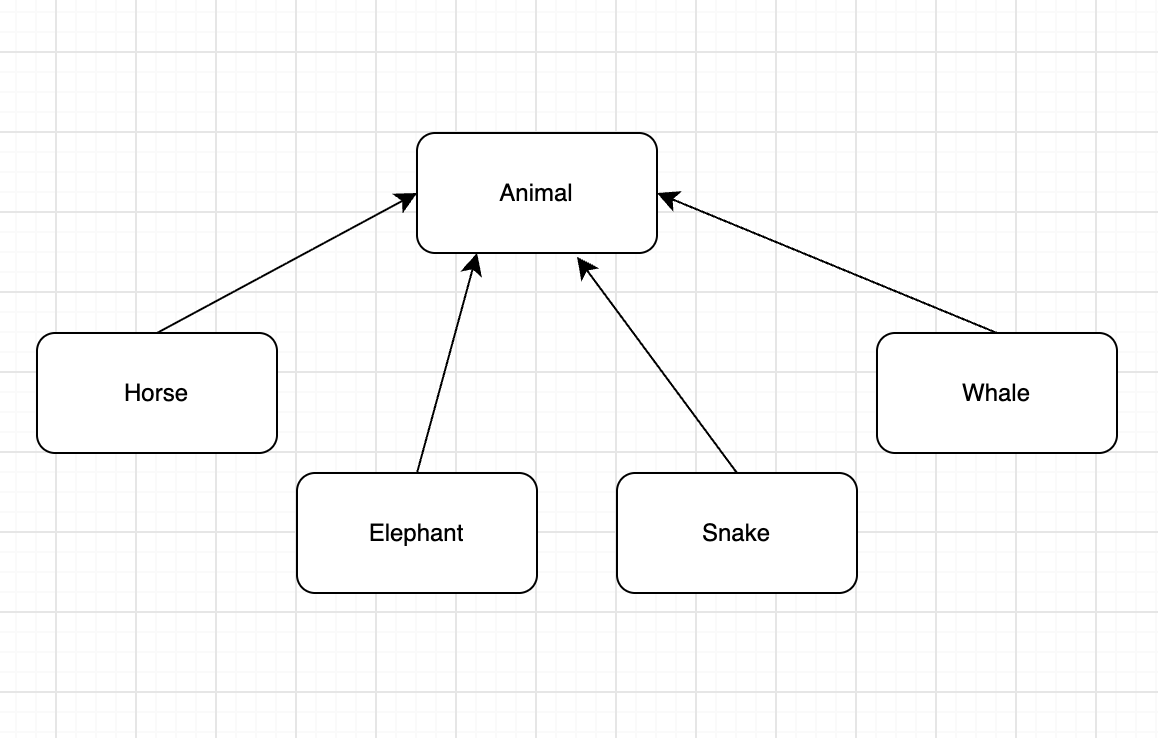
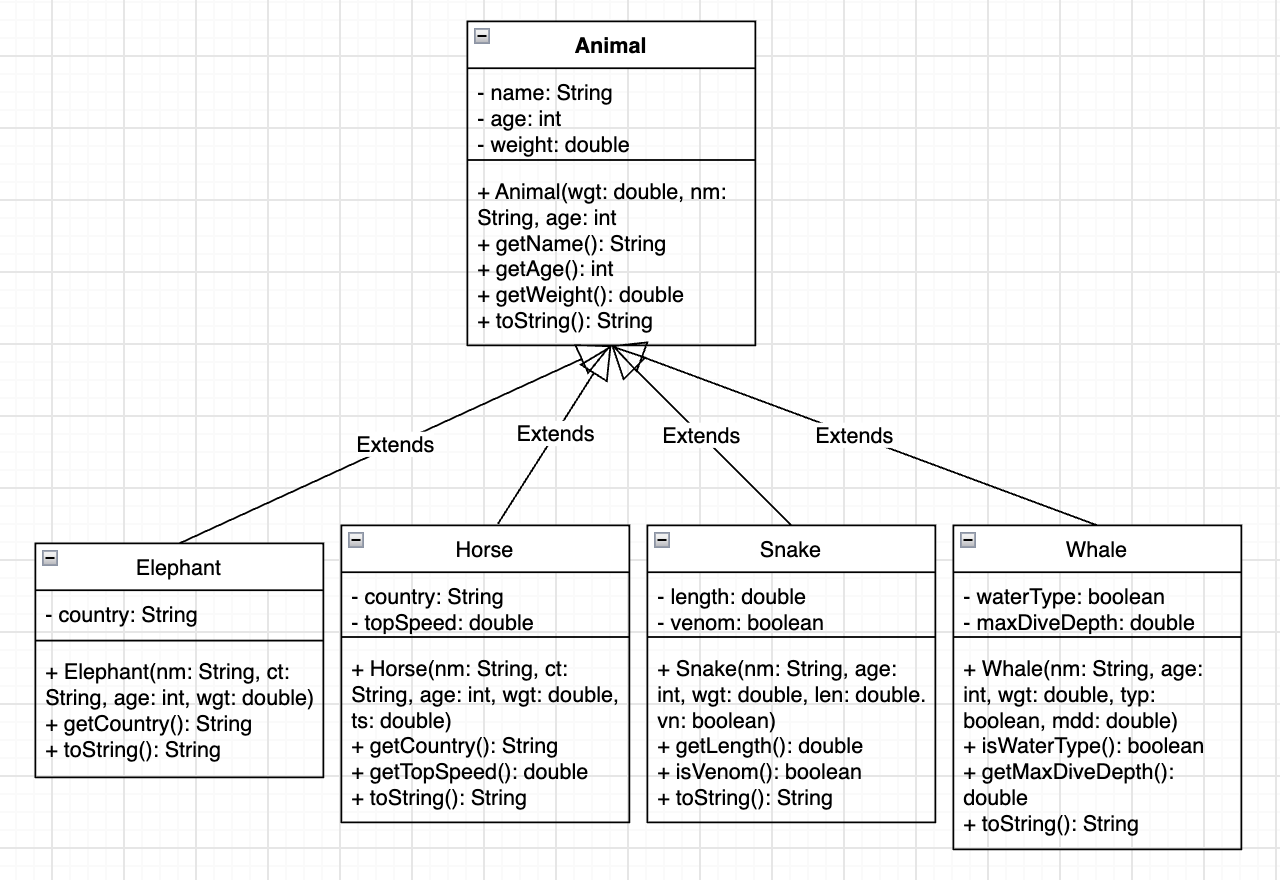
added javadoc comments + cleaned up before submission

diff --git a/Shelf.java b/Shelf.java
@@ -1,22 +1,39 @@
 import java.util.LinkedHashSet;
 import java.util.Set;
 
-/* LinkedHashSet behaves like a shelf where there cannot be 
-   duplicates (can't have on item on shelf exist multiple times 
-   (unless you own duplicates), and the order you put items on a 
-   shelf are preserved. 
-*/
+/**
+ * Represents a shelf that stores a collection of items (such as DVDs or Books).
+ *
+ * A LinkedHashSet was used so that the items will remain in the order
+ * they were added and duplicate Item objects are not allowed. 
+ * The order of the items is important for the display of the shelf.
+ */
 public class Shelf {
     private Set<Item> items;
 
+    /**
+     * Empty shelf construtor.
+     */
     public Shelf() {
         items = new LinkedHashSet<>();
     }
 
+    /**
+     * Adds an item to the shelf, by UML design a book or 
+     * DVD object can be added to the shelf.
+     *
+     * @param item the item to add to the shelf
+     */
     public void addItem(Item item) {
         items.add(item);
     }
 
+    /**
+     * Removes an item from the shelf.
+     *
+     * @param item the item to remove from the shelf, usually a 
+     * book or DVD object
+     */
     public void removeItem(Item item) {
         items.remove(item);
     }

diff --git a/Item.java b/Item.java
@@ -1,3 +1,9 @@
+/**
+ * Represents an item that can be stored on a shelf.
+ *
+ * The item is an abstract class, and is a superclass
+ * for books and DVDs
+ */
 public abstract class Item {
     
 }

diff --git a/Book.java b/Book.java
@@ -1,3 +1,6 @@
+/**
+ * Represents a book that can be stored on a shelf.
+ */
 public class Book extends Item {
     
 }

diff --git a/DVD.java b/DVD.java
@@ -1,3 +1,6 @@
+/**
+ * Represents a DVD that can be stored on a shelf.
+ */
 public class DVD extends Item{
     
 }

diff --git a/task2.md b/task2.md
@@ -1,4 +1,4 @@
-AI Answers + Prompts Recieved (ChatGPT)
+AI Answers + Prompts Received (ChatGPT)
 
 Below is a complete AI-generated response you can preserve and use for the next part of the assignment.
 
@@ -177,14 +177,24 @@ This stack is suitable because it uses widely adopted technologies, supports a s
 
 ---
 
-### Critical Reflection and Evaluation
+# Critical Reflection and Evaluation
+
+## Problem Statement
 
 For the problem statement, I generally thought the statement was overall decent to express the need for an app that could handle rent, maintenance, exchanging message with a landlord, and viewing community events since often all these tasks are in seperate forms of media (paper, texting, sending rent through a check or deposit, and maintenance requests can somethimes be calls). So for something as simple as a proposal I think this suggestion given is reasonable and gives a good baseline reason for the app in having everything be in one spot.
 
+## User Stories
+
 For the several relevant user stories, I think these were all well done too. The user stories both think from the persepective of the landlord and tenant in the features that are added. I am not really used to writing out user stories, but I checked that rent, maintenance, messages between tenant and landlord, and comunity events are all considered from both points of view. I would say if the property mangagemnet application were to add anything it could be that when maintenance requests get approved there is also accesibility for the people who work in maintenance to get access to the request made, but since this wasn't a feature of users that's not something neccesary to be mentioned when discussing user stories that are relevant.
+
+## Application Type
 
 I do agree that a property management application should be a web app since that can be access on essentially all devices a tenant would need to use. Mobile would limit people who might want to pay rent on their laptop or feel more comfortable with typing on larger screens for a maintanence request. In the same vein a desktop application would limit users who want to text their landlord on the go, and would not like taking out their laptop for that. A web app is the best of both worlds in the comfortability of a user wanting to pay rent, message their landlord, send maintenance requests, or community event updates. While there might not be motifications from a web app for example when a landlord responds etc, there can always be ways such as email to a user to say that the landlord has reponded which could work just as well.
 
-The appropriate software architecture could use some work, at least if I were to do this app I would take some of the suggestions, like a React based frontend, but in terms of what type of database to use, I would use convex just because it's the one that I know best and it can easily be formatted to reflect the features of a user or table of data that the application needs. In terms of the payment API, I've never developed an application that needs security for specifically payment transactions so the details of what type of architecture for that is something I would have to research more, and perhaps a reasonable suggestion is what the ChatGPT example has given.
+## Software Architecture
 
-The suitable software track given was for the sections I had more knowledge about such as frontend, render, styling all seems good, I would think React, Tyescript, CSS, and Vercel or AWS, and Github all work well. I think for the database as I said before I would use convex just because it is more malleable to making a database based on the clients preference, and is often really easy to fine tune to collect data of the specific users that sign in and perhaps have their room number, rent amount, or something similar attached to user signed in that can make the development process smoother. For the other sections I have less knowledge about thos, but based on the appropriate general software tracks given for the othet sections, I would assume aside from the database that Express and Stripe are for the backend and payments often used for apps that require finanical processing built in.
+The appropriate software architecture is something that I generally agree with. The three-tier architecture of separating the frontend, business logic, and database makes the application easier to organize and maintain. But this could use some work, at least if I were to do this app I would take some of the suggestions, like a React based frontend, but in terms of what type of database to use, I would use convex just because it's the one that I know best and it can easily be formatted to reflect the features of a user or table of data that the application needs, so it works for as a backend and database for this type of programming project. In terms of the payment API, I've never developed an application that needs security for specifically payment transactions so the details of what type of architecture for that is something I would have to research more, and perhaps a reasonable suggestion is what the ChatGPT example has given.
+
+## Software Stack
+
+For the frontend, I agree with React and TypeScript because I have experience with both and they are appropriate for building a responsive web application as well. I also agree with using CSS/Tailwind CSS for styling since that's most common. For hosting, I think Vercel or AWS would be reasonable choices, although I would personally prefer Vercel because I have more experience with it. I also agree with Git and GitHub because they are useful for version control and collaboration. For the database, I would choose Convex instead of PostgreSQL because I am more familiar with it and believe it would make development easier for me, and Convex also works for the backend as well. I have less experience with Express, JWT/session authentication, and Stripe, so I can't evaluate whether they are the best choices. However, they seem reasonable based on the AI's explanation, and I would research these technologies further before implementing them.

diff --git a/task1.md b/task1.md
@@ -1,9 +1,11 @@
-Benefits of Client-Server Architecture:
+## Task 1: Client-Server Architecture
 
-A benefit of the client-server architecture is that it allows for a direct link between the client and server in the send that there is no middleman between the two. This directness 
+### Benefits of Client-Server Architecture
 
-Another benefit is that since everything is in a server, many clients can access and share documents / files with eachother.
+A benefit of client-server architecture is that it allows clients to communicate directly with a centralized server to make requests and receive data or services the are required. This makes it easier for clients to access the resources provided by the server.
 
-Potential Drawback(s) of Client-Server Architecture:
+Another benefit is that resources can be stored and managed centrally on the server, allowing multiple clients to access and share documents or files with each other.
 
-A potential drawback of a client-server architecture is that because it is a direct server to client, if the server doesn't work there is nothing that the client can do until the server is back up. This could happen for example if there are too many requests to the server, this could slow down information that is sent from the server to a client and decrease productivity.
+### Potential Drawback(s) of Client-Server Architecture
+
+A potential drawback of client-server architecture is that if the server becomes unavailable, clients may not be able to access the services or information they need until the server is restored. For example, if the server receives too many requests at once, it could become overloaded, slowing down the information sent to clients and decreasing productivity.

diff --git a/task3.md b/task3.md
@@ -1,3 +1,3 @@
-The relationship between Faculty and Department is as inducation by the arrow pointing away from department towards faculty is that a department has a faculty, so a has-a relationshio is expressed.
+The relationship between Faculty and Department is as inducation by the arrow pointing away from department towards faculty and a diamond at it's base is a aggregation. The * symbol near faculty means multiplicity, so one department is associated with more than one faculty. The relationship is also one direction since a department ovject can reference faculty, but the faculty can't reference a department.
 
-The relationship between a alarmcontroller and sensor as indicated by the line between the two and the 1 by AlarmController and the 1.. by Sensor is that an AlarmController (one singular object) is associated with 1.. (at least one, at most infinite) sensors. Vice versa, each sensor is associated with exactly 1 AlarmController.
+The relationship between a alarmcontroller and sensor as indicated by the line between the two and the 1 by AlarmController and the 1.. by Sensor is that an AlarmController (one singular object) is associated with 1.. (at least one, at most infinite) sensors. Vice versa, each sensor is associated with exactly 1 AlarmController. This relationship is an association, there is no diamond around the arrow. Thex lack of arrows on both ends of the line means the association is bidirection, so both classes can reach eachother.
